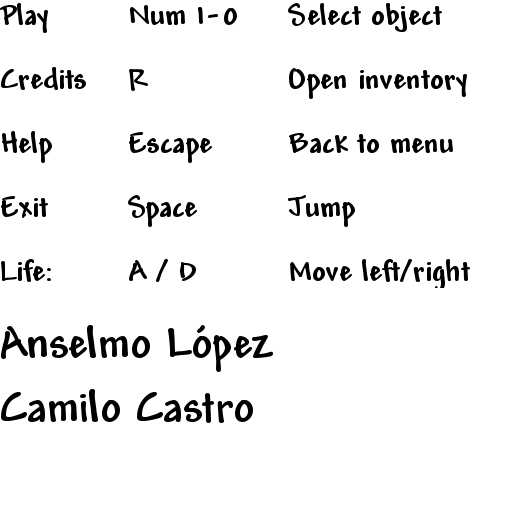
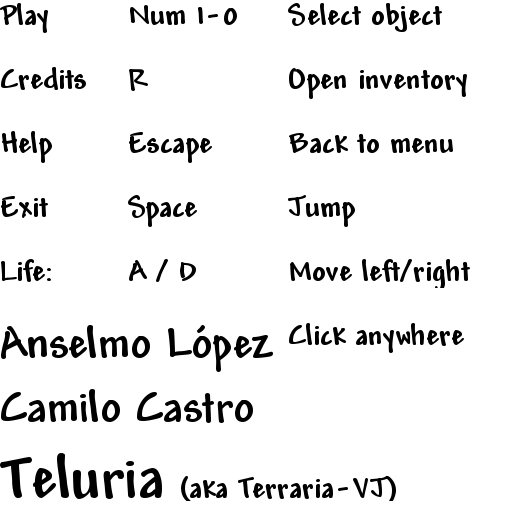
end

Changed region(s): [[0.0, 0.875, 0.7812, 1.0], [0.5625, 0.625, 0.9062, 0.6875]]

diff --git a/Enemigo.cpp b/Enemigo.cpp
@@ -54,14 +54,15 @@ void Enemigo::init(const glm::ivec2 &tileMapPos, ShaderProgram &shaderProgram)
 
 void Enemigo::update(int deltaTime)
 {
-	glm::vec2 ppos = sc->getPlayerPos();
+	glm::vec2 ppos = sc->getPlayerPosition();
 	glm::ivec2 diff = glm::ivec2(std::abs(ppos.x - posEnemigo.x), std::abs(ppos.y - posEnemigo.y));
 	float dist = std::sqrt(diff.x*diff.x + diff.y*diff.y);
-	if (dist < 8 & !inCollisionList)
+	if (dist < 80 & !inCollisionList)
 	{
 		sc->getPlayer()->addEnemy(this);
 		inCollisionList = true;
 	}
+
 	
 	sprite->update(deltaTime);
 	Estado* nuevo = estado->cambiarEstado();

diff --git a/EndScene.cpp b/EndScene.cpp
@@ -2,14 +2,19 @@
 
 EndScene::EndScene()
 {
+	anywhere = NULL;
 }
 
 EndScene::~EndScene()
 {
+	if (anywhere != NULL)
+		delete anywhere;
+
 }
 
 void EndScene::init()
 {
+	anywhere = Sprite::createSprite("images/gui.png", glm::vec4(288, 320, 192, 32), &texProgram);
 }
 
 void EndScene::update(int deltatime)
@@ -18,11 +23,12 @@ void EndScene::update(int deltatime)
 
 void EndScene::render()
 {
+	anywhere->render();
 }
 
 BasicScene * EndScene::changeState()
 {
-	return nullptr;
+	return this;
 }
 
 void EndScene::initShaders()

diff --git a/SwordObj.cpp b/SwordObj.cpp
@@ -15,7 +15,7 @@ void SwordObj::action(Player * player, glm::vec2 mouse_pos, TileMap * map)
 		glm::vec2 epos = (*i)->getPosition();
 		glm::ivec2 diff = glm::ivec2(std::abs(ppos.x - epos.x), std::abs(ppos.y - epos.y));
 		float dist = std::sqrt(diff.x*diff.x + diff.y*diff.y);
-		if (dist < 32) {
+		if (dist < 80) {
 			(*i)->disminuirVida(3);
 			if ((*i)->estaMuerto()) {
 				(*i)->lastAction();

diff --git a/Game.cpp b/Game.cpp
@@ -27,8 +27,8 @@ void Game::render()
 
 void Game::keyPressed(int key)
 {
-	if(key == 27) // Escape code
-		bPlay = false;
+	/*if(key == 27) // Escape code
+		bPlay = false;*/
 	keys[key] = true;
 }
 

diff --git a/Scene.cpp b/Scene.cpp
@@ -165,7 +165,7 @@ Player * Scene::getPlayer()
 
 void Scene::theEnd()
 {
-
+	bend = true;
 }
 
 

diff --git a/EndScene.h b/EndScene.h
@@ -22,4 +22,5 @@ private:
 	glm::mat4 projection;
 
 	Sprite* end;
+	Sprite* anywhere;
 };
